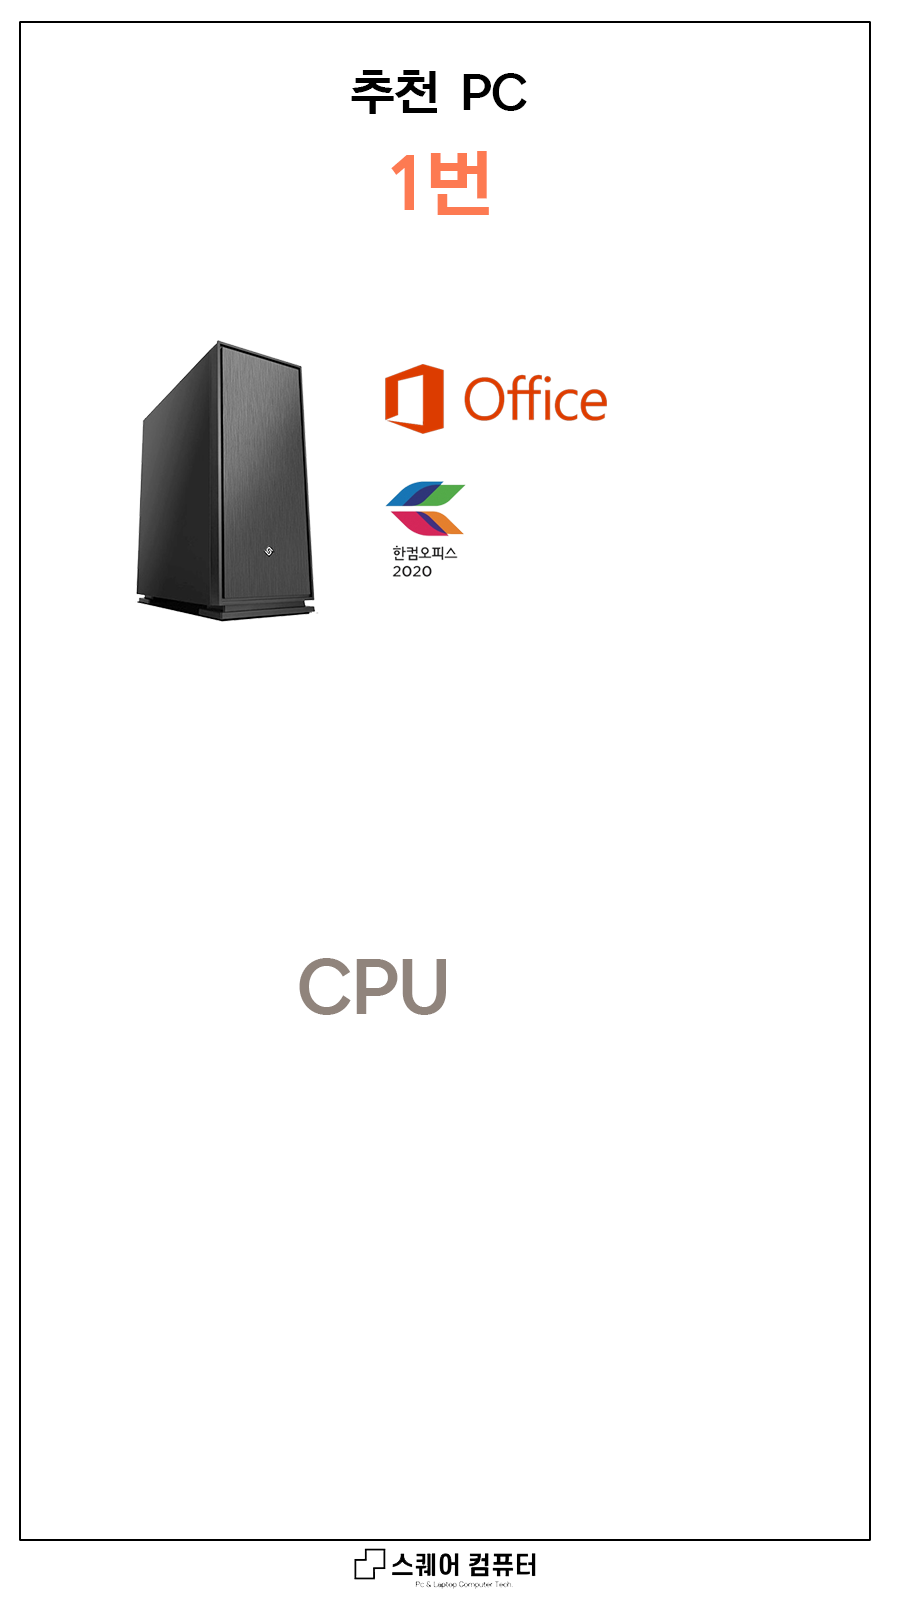
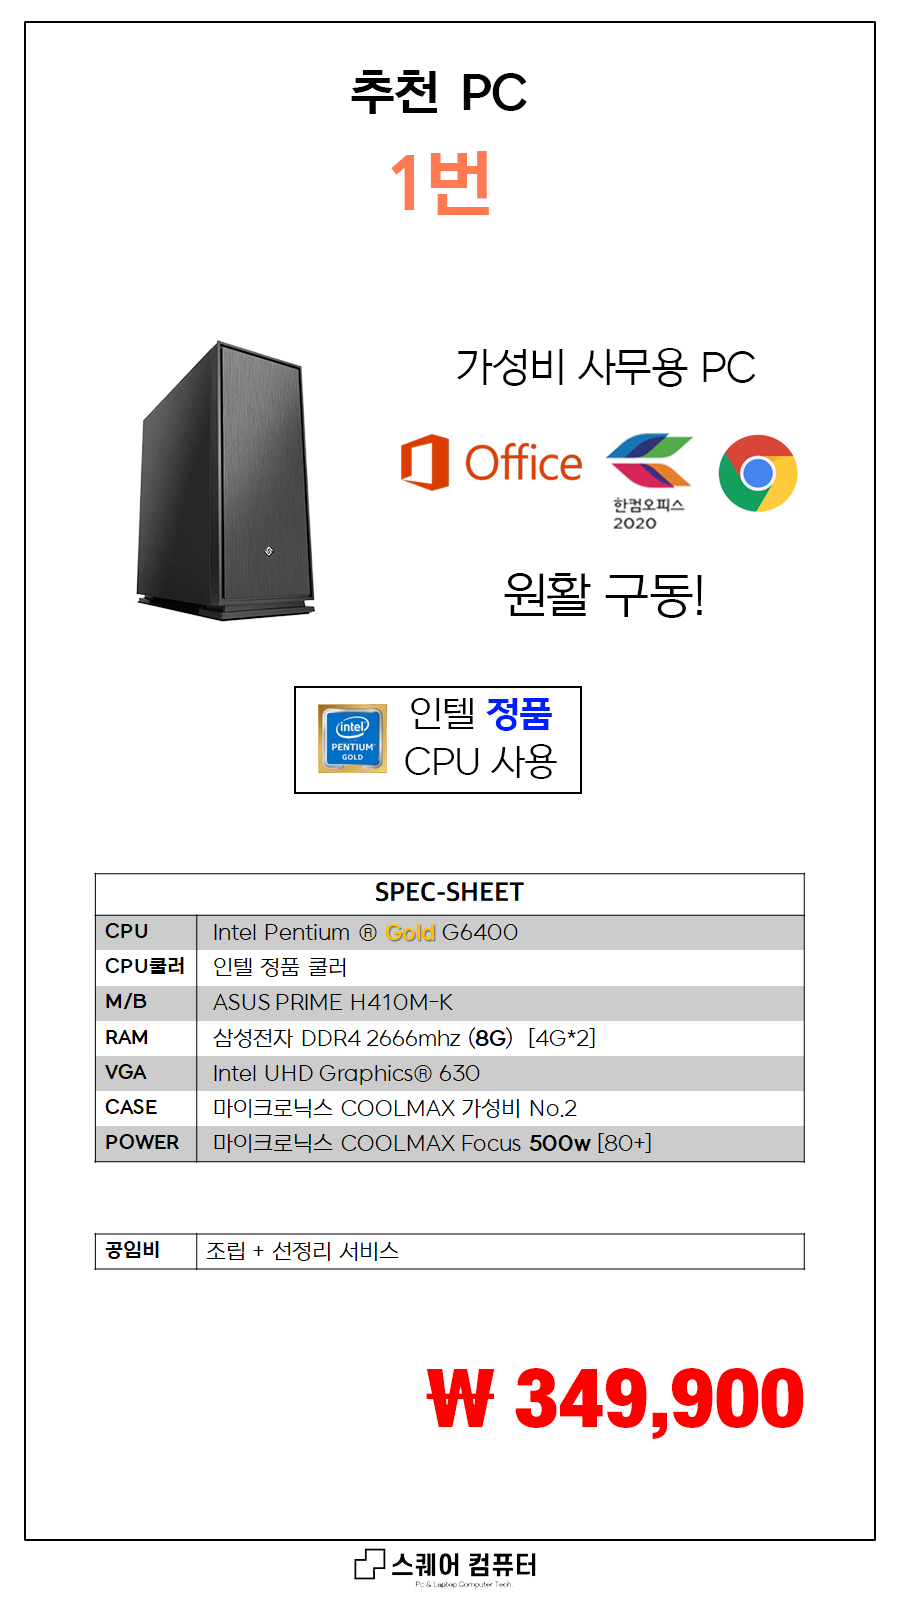
Add files via upload

diff --git a/recommend.html b/recommend.html
@@ -119,7 +119,7 @@
       <h6>30~60만원대 PC</h6>
       <div class="out">
         <div class="r1pc" style="border: 1px solid black; cursor: pointer;"; onclick="location.href='/recommend/30~60/No1.html'">
-            <img class="pc"; src="./img/pc3_abko810s.png"; width="50%"; style="float : left;";>
+            <img class="pc"; src="./img/pc5_마닉가성비no2.png"; width="50%"; style="float : left;";>
             <h1><b>> 01번 PC</b></h1>
             <h3>(Office, 웹서핑) <br>사무용PC</h3><br><br><br>
             <h2><b>　CPU</b> - Intel Pentium(R) Gold G6400

diff --git a/recommend/30~60/No1.html b/recommend/30~60/No1.html
@@ -6,7 +6,7 @@
     <meta http-equiv="X-UA-Compatible" content="IE=edge">
     <meta name="viewport" content="width=device-width, initial-scale=1.0">
 
-    <link rel="shortcut icon" type="image/x-icon" href="./Logo.png">
+    <link rel="shortcut icon" type="image/x-icon" href="/img/Logo.png">
     
     <title>SQUARE PC</title>
     <link rel="stylesheet" href="/index.css">
